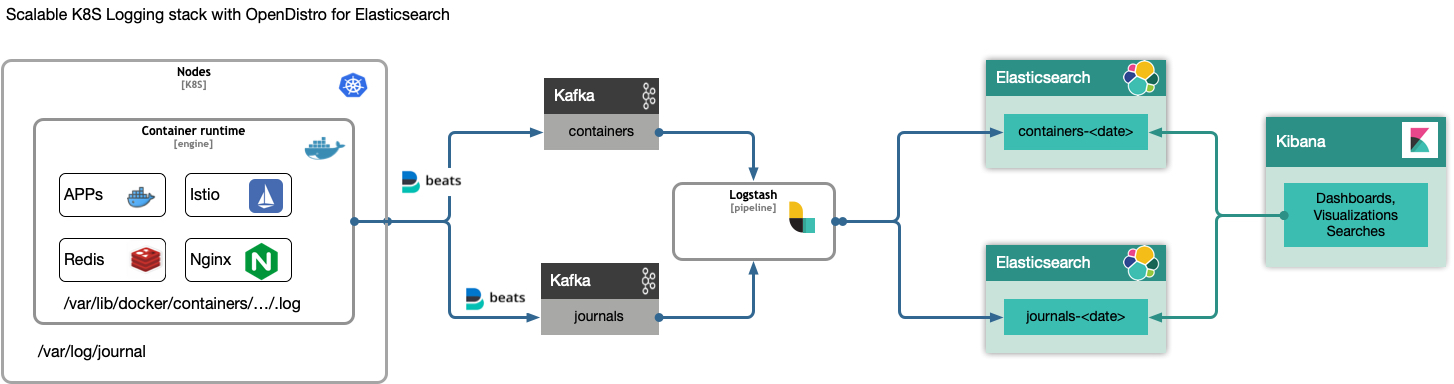
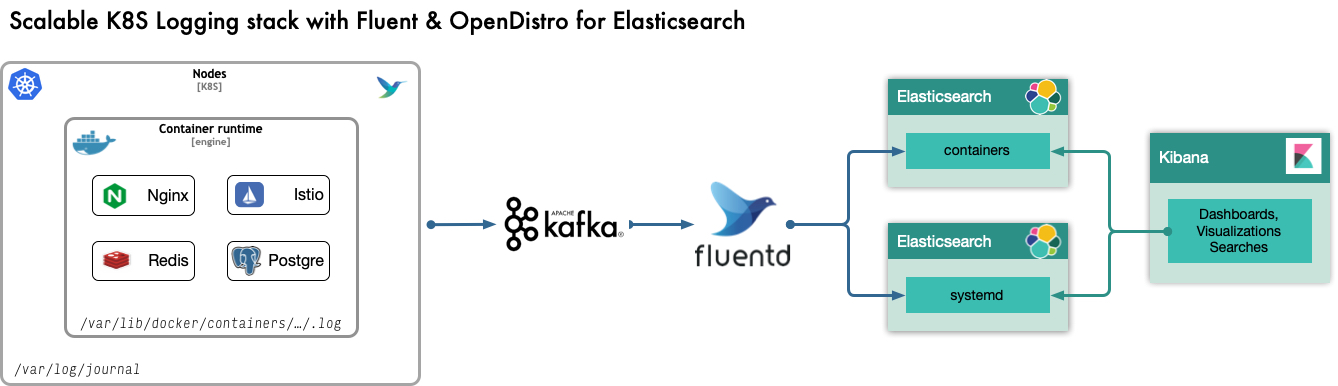
release 1.0.0

diff --git a/README.md b/README.md
@@ -1,49 +1,45 @@
-[![Artifact HUB](https://img.shields.io/endpoint?url=https://artifacthub.io/badge/repository/kubernetes-logging)](https://artifacthub.io/packages/search?repo=kubernetes-logging)
+[![Artifact HUB](https://img.shields.io/endpoint?url=https://artifacthub.io/badge/repository/kubernetes-logging-helm)](https://artifacthub.io/packages/search?repo=kubernetes-logging-helm)
 # kubernetes-logging-helm
 
-```
-helm repo add logging https://nickytd.github.io/kubernetes-logging-helm
-helm repo update
-```
+This helm chart deploys a Kubernetes logging stack with the main purpose of enabling log observability for applications. The design supports both local development use cases such as minikube deployments up to a scaled up production scenarios. The latter scenario leverages kafka message broker completely decoupling the log generations and indexing functions. 
 
-This is a comprehensive helm chart for deploying complete Kubernetes logging stack featuring few design options suitable from a minikube/kind setup up to a scaled production grade deployment capable of processing billions of records.
+The helm chart deploys elastic in various configurations from single node setup for local development to a scaled multi nodes elastic deployment. In the latter case there are 3 types of nodes (coordination, data and master) where each of those can be horizontally scaled depending on the load and shards replication demands. 
 
-![Containers Logs](images/k8s-logging-stack.jpg)
+Finally the helm chart provides index templates management in elastic and index pattern management in kibana. An initial predefined set of dashboards is also provided for illustration purposes.
 
-Here is a [setup example](examples) for local development and testing based on [kind](https://kind.sigs.k8s.io) or [minikube](https://minikube.sigs.k8s.io/)
+![Kubernetes Logging Stack](images/k8s-logging-stack.jpg)
 
-Start a sample provisioning with setting up a local cluster, followed by deployment of the logging stack.
-[examples/setup-cluster.sh](examples/setup-cluster.sh)
-[examples/install-elk.sh](examples/install-elk.sh)
-```ìnstall-elk.sh -minikube``` or ```ìnstall-elk.sh -kind```
+Here is a [setup example](https://github.com/nickytd/kubernetes-logging-helm/tree/master/examples) for local development and testing based on [minikube](https://minikube.sigs.k8s.io)
 
-Provisioning options:
-By default the helm chart setup following components:
- 1. Elastic coordination node
- 1. Elastic master node
- 1. Elastic data node
- 1. Filebeat 
- 1. Logstash
- 1. Kibana
-and optionally  
- 1. Journalbeat
- 1. MetricBeat
- 1. Kafka and Zookeeper
- 
-The logging stream has dedicated Elasticsearch indices. The stdout and stderr from containers are pushed to "containers-<date>" indices and the systemlog of the hosts, if journabeat is enabled. is pushed to "journals-<date>". When enabled metrics are delivered to "containers-<date>" indices.
+Here is a [single node setup](https://github.com/nickytd/kubernetes-logging-helm/tree/master/examples/k8s-logging-minikube-values.yaml)
 
-The chart also supports external(outside the cluster) Elasticsearch instance. In this configuration no elastic (coordination, data, master) nodes will be provisioned by the helm chart.
+Provisioned components:
+ 1. Single Elastic node
+ 1. Fluent-Bit instance per kubernetes node
+ 1. (optional elastic-exporter)
 
-Kibana by default comes with 2 predefined dashboards and set of searches
-1. Containers logs dashboard, grouping container logs per namespace and pod
-![Containers Logs](images/LogStream.png)
-2. Journals logs dashboard, grouping systemlogs per system unit and node
-![Journals Logs](images/JournalLogs.png)
 
-Usually logs are searched and inspected via the Discovery view
-1. Containers Logs in Discovery View
-![Containers Logs](images/ContainersLogs.png)
-1. Containers Logs enhanced with Kubernetes metadata. 
-![Containers Logs](images/LogswithMetadata.png)
+And a [scaled out multi node setup](https://github.com/nickytd/kubernetes-logging-helm/tree/master/examples/k8s-logging-scaled-minikube-values.yaml)
 
-In Kibana multi tenant layout is also supported. The Helm chart sets up a Developer tenant with the corresponding role having read/write permission in the tenant space.
+Provisioned components:
+ 1. 2 Elastic coordination nodes
+ 1. 2 Elastic master nodes
+ 1. 2 Elastic data nodes
+ 1. Fluent-Bit instance per kubernetes node
+ 1. 2 Kafka brokers
+ 1. Zookeeper
+ 1. FluentD
+ 1. (optional elastic-exporter)
+
+Following dashboards in Kibana are also provisioned for illustration purposes
+
+Logs Stream Dashboard 
+![Logs Stream Dashboard](images/containers-dashboard.png)
+
+Systemd logs Dashboard
+![Systemd logs Dashboard](images/systemd-dashboard.png)
+
+Nginx Access Logs Dashboard
+![Nginx Access Logs Dashboard](images/nginx-dashboard.png)
+
+Multi tenant layout is also supported in Kibana. This helm chart sets up a Developer tenant with the corresponding role having read/write permission in the corresponding tenant space.
